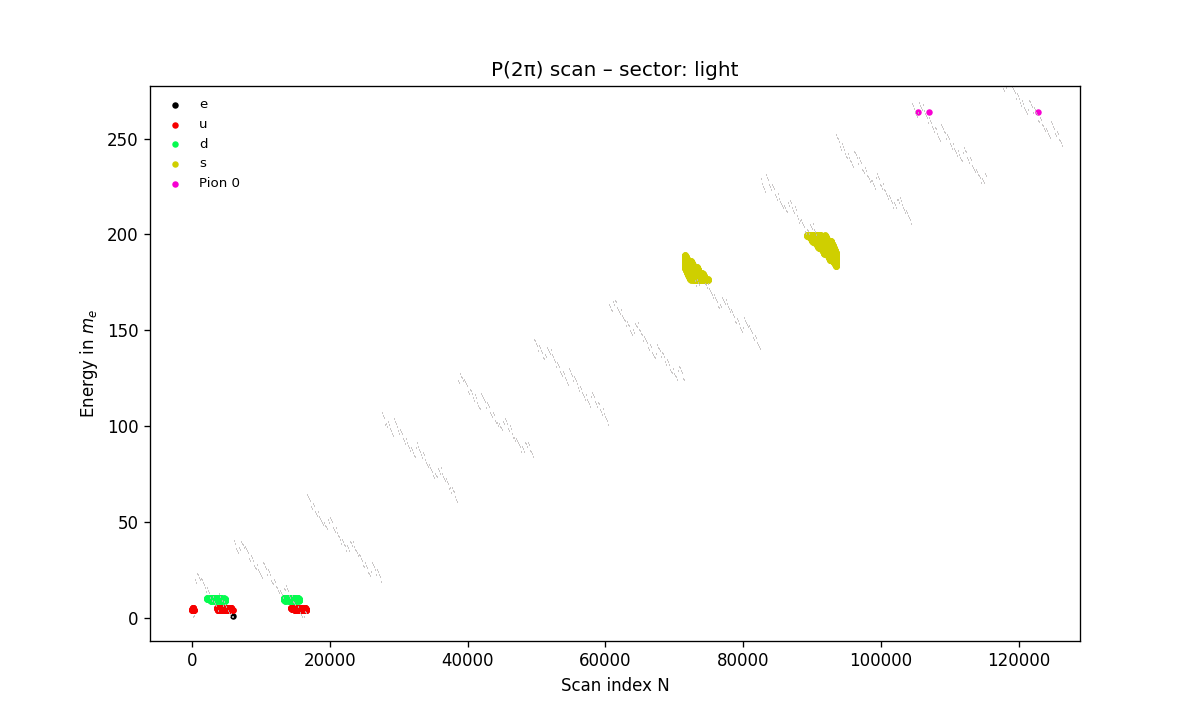
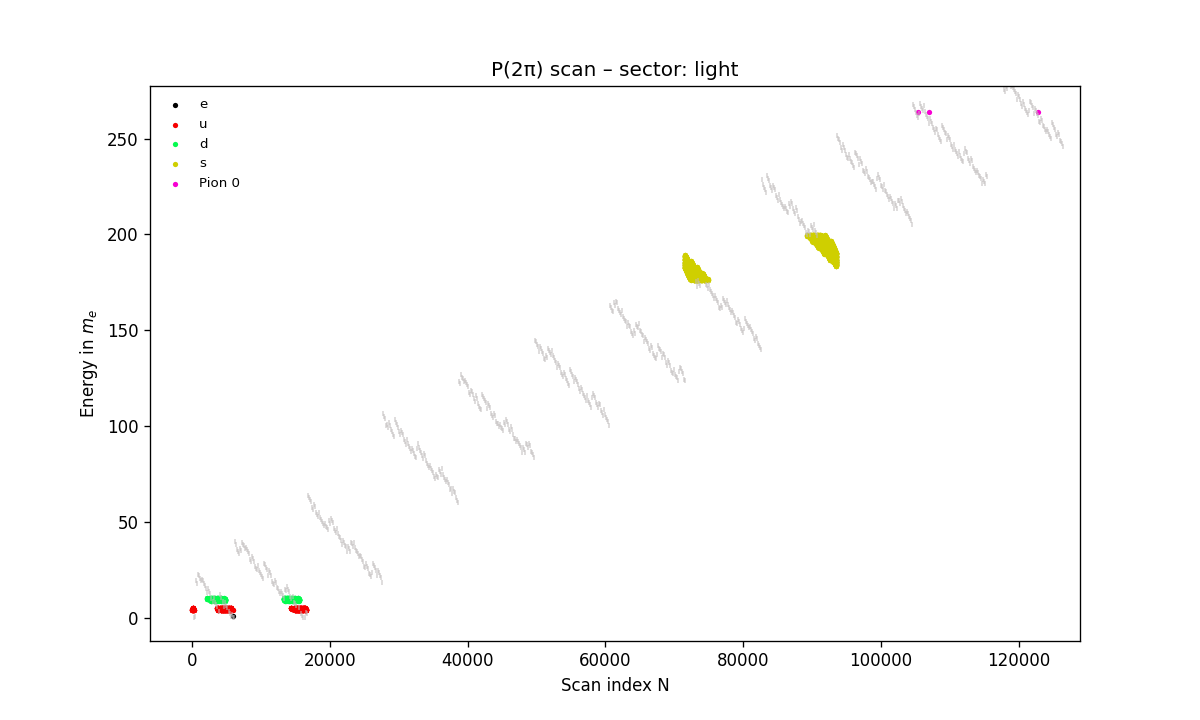
Adjust plots

diff --git a/src/polynome2pi/plotting.py b/src/polynome2pi/plotting.py
@@ -10,9 +10,7 @@ from matplotlib.collections import LineCollection
 from .particles import Particle
 
 
-def default_colors() -> List[str]:
-    # same palette style as legacy (not identical required)
-    return [
+colors =  [
         "#000000", "#F60000", "#05FB4F", "#CFCF00", "#07FCE4", "#F700D2",
         "#00F73E", "#7BB91F", "#A9BF06", "#789E20", "#CF00B7", "#EC61A9",
         "#FA9805", "#4200F6", "#495999", "#B91F50", "#CB4088", "#4D8E2F",
@@ -36,16 +34,15 @@ def plot_scan(
     plt.xlabel("Scan index N")
     plt.ylabel("Energy in $m_e$")
 
-    colors = default_colors()
     keys = list(particles.keys())
 
     for idx, key in enumerate(keys):
         xs, ys = matched_points.get(key, ([], []))
         if xs:
-            plt.scatter(xs, ys, s=60, c=colors[idx % len(colors)], marker=".", linewidths=0, label=particles[key].name)
+            plt.scatter(xs, ys, s=40, c=colors[idx % len(colors)], marker=".", linewidths=0, label=particles[key].name)
 
     if unmatched_segments:
-        lc = LineCollection(unmatched_segments, colors="#C0BCBC", linewidths=1)
+        lc = LineCollection(unmatched_segments, colors="#C0BCBC", linewidths=3)
         plt.gca().add_collection(lc)
 
     # keep legend lightweight

diff --git a/src/fuer_papa.py b/src/fuer_papa.py
@@ -8,13 +8,13 @@ from polynome2pi.main import main
 
 ARGS = [
     "--sector", "nucleon",
-    # "--no-show",
+    # "--no-open",
 ]
 
 # Examples:
 # ARGS = ["--sector", "minimal"]
 # ARGS = ["--sector", "nucleon"]
-# ARGS = ["--sector", "heavy", "--base-name", "tau_scan"]
+# ARGS = ["--sector", "heavy"]
 # ARGS = ["--sector", "light"]
 
 # =======================
